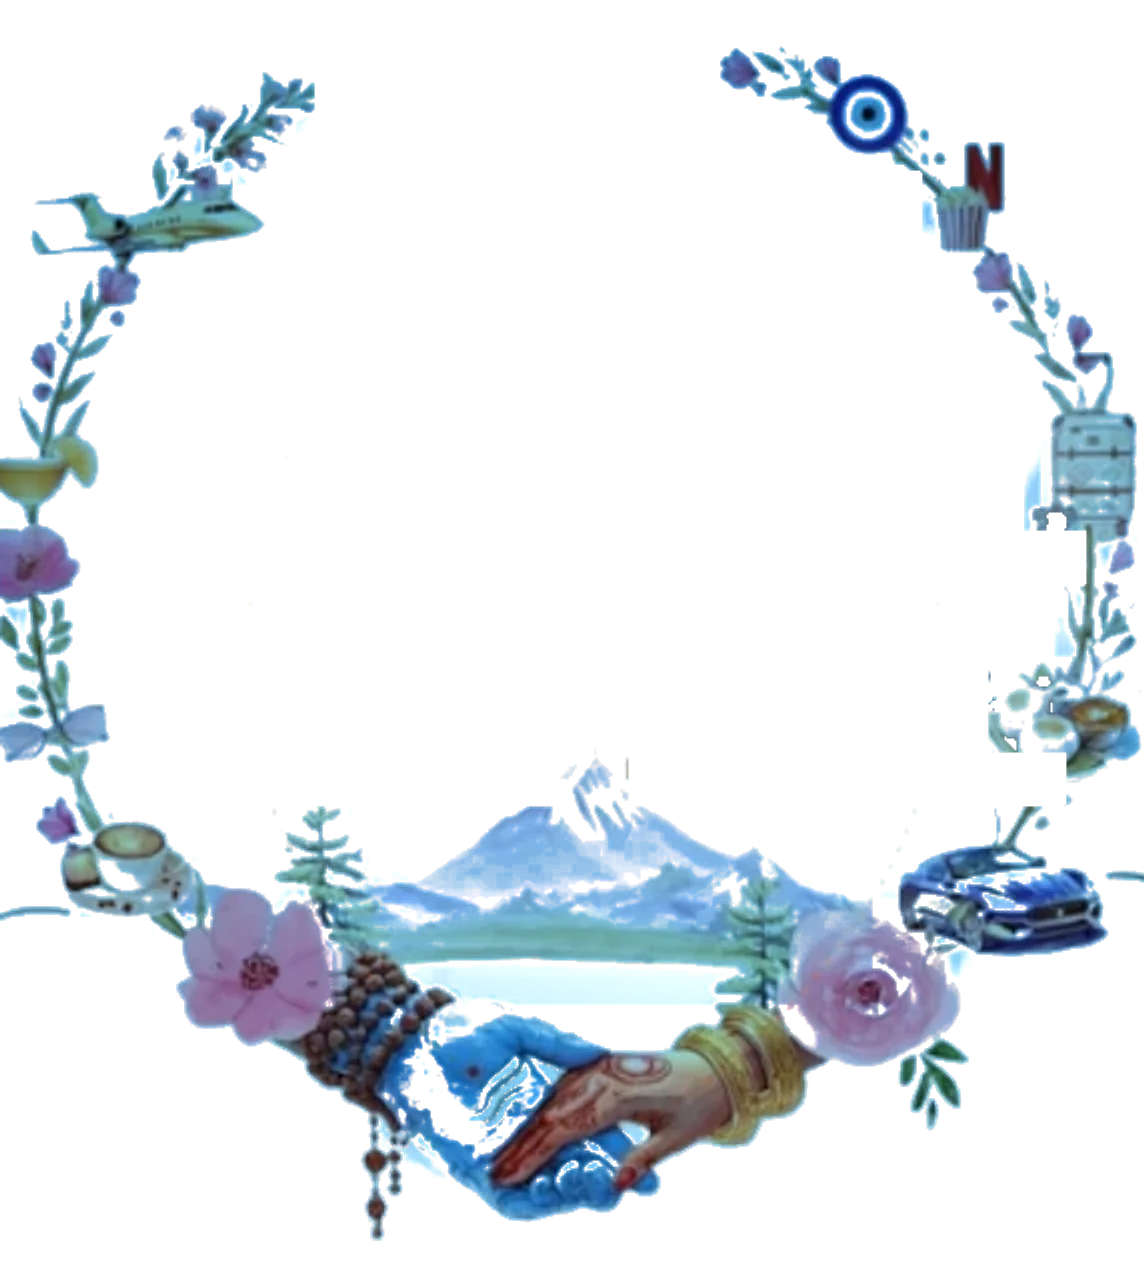
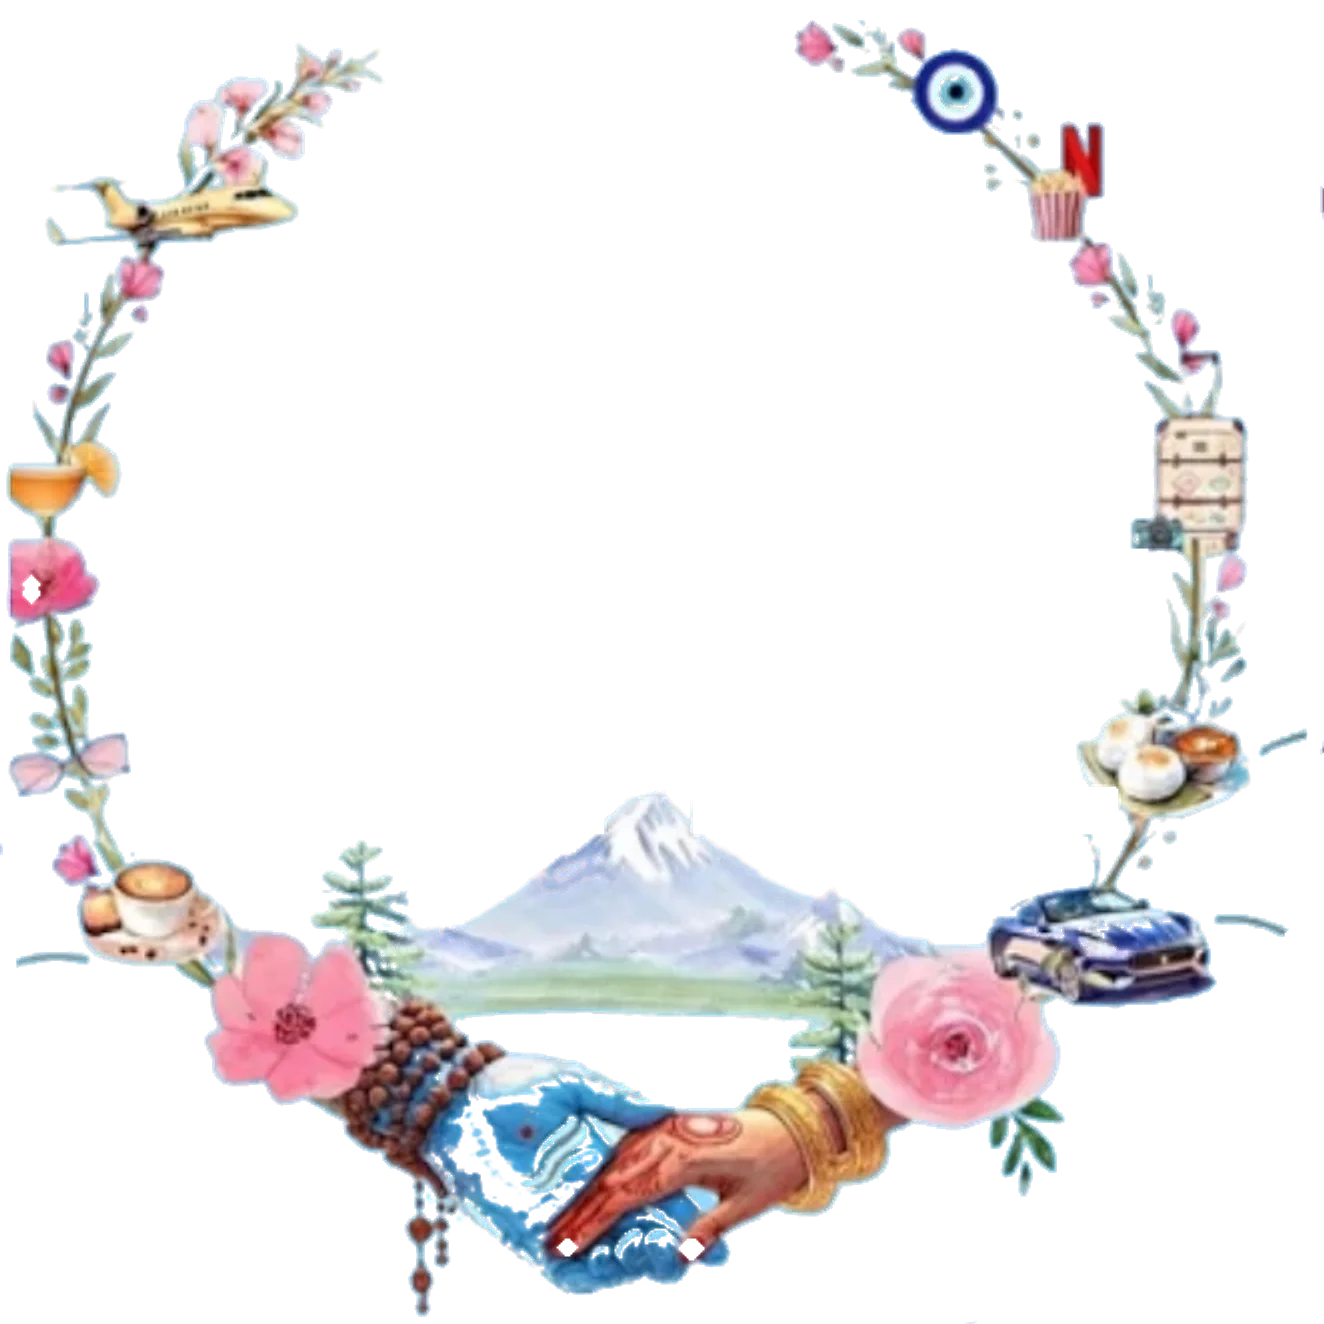
Countdown: the wreath design from the second screenshot
The section now follows the design inside the red outline: the wreath,
the mountain and the joined hands, re-cut from the new, sharper
screenshot (1324 x 1324), with the words set inside it as drawn.
- Gone: the dashed gold arch with the crescent, the stars around
  शुभ मुहूर्त and the fleuron under the section.
- The title, the gold line with its diamond and the date line sit
  higher and a little smaller; the numbers use old-style figures with
  fainter gold dividers, and the labels sit closer under them.
- The couple's clouds still part over the wreath as before.

Changed region(s): [[0.0, 0.0, 1.0, 1.0]]

diff --git a/src/components/sections/Countdown.tsx b/src/components/sections/Countdown.tsx
@@ -12,10 +12,10 @@ import { RollingNumber } from "@/components/ui/RollingNumber";
  * Section 03 — the celestial calendar, inside the couple's wreath.
  *
  * The couple's clouds part, and the wreath appears: flowering vines threaded
- * with their little things, a watercolour mountain and the joined hands at
- * its foot, a faint dashed gold arch with Shiva's crescent behind the words.
- * Inside: the auspicious moment and a live count of days, hours, minutes and
- * seconds to the wedding at the venue's time. A small gold fleuron closes it.
+ * with their little things, and a watercolour mountain and the joined hands
+ * at its foot. Inside: the auspicious moment, a fine gold line, the date, and
+ * a live count of days, hours, minutes and seconds to the wedding at the
+ * venue's time.
  */
 export function Countdown() {
   const ref = useRef<HTMLElement>(null);
@@ -63,24 +63,20 @@ export function Countdown() {
               transition: reduced ? "opacity 400ms linear" : `opacity 1400ms ${EASE.silk} ${at(500)}ms`,
             }}
           />
-          <ArchCrown shown={seen} reduced={reduced} />
-
-          <div className="absolute inset-x-[9%] top-[19.5%] flex flex-col items-center">
-            <Reveal show={seen} delay={at(900)} as="p" className="font-deva text-[15px] leading-none text-gold-ink">
-              <span aria-hidden className="mr-1.5 text-[10px]">✦</span>
+          <div className="absolute inset-x-[11%] top-[20.6%] flex flex-col items-center">
+            <Reveal show={seen} delay={at(900)} as="p" className="font-deva text-[16px] leading-none text-gold-ink">
               <span lang="sa">{copy.eyebrow}</span>
-              <span aria-hidden className="ml-1.5 text-[10px]">✦</span>
             </Reveal>
             <Reveal show={seen} delay={at(1050)}>
               <h2
                 id="countdown-heading"
-                className="mt-[2.6cqw] text-[27px] leading-tight [font-size:clamp(24px,7.6cqw,29px)]"
+                className="mt-[2.2cqw] text-[25px] font-medium leading-tight [font-size:clamp(22px,7.2cqw,28px)]"
               >
                 {message ? message.title : copy.title}
               </h2>
             </Reveal>
             {/* a fine gold line with a diamond */}
-            <Reveal show={seen} delay={at(1150)} className="mt-[2.4cqw] flex w-full items-center gap-2">
+            <Reveal show={seen} delay={at(1150)} className="mt-[1.6cqw] flex w-[88%] items-center gap-2">
               <span aria-hidden className="h-px flex-1 bg-gradient-to-r from-transparent to-gold" />
               <span aria-hidden className="h-2 w-2 rotate-45 border border-gold bg-ivory" />
               <span aria-hidden className="h-px flex-1 bg-gradient-to-l from-transparent to-gold" />
@@ -90,14 +86,14 @@ export function Countdown() {
                 show={seen}
                 delay={at(1200)}
                 as="p"
-                className="mt-[2.2cqw] font-sans text-[10px] font-medium uppercase tracking-[0.16em] text-gold-ink [font-size:clamp(9.5px,2.9cqw,11px)]"
+                className="mt-[1.6cqw] font-sans text-[10px] font-semibold uppercase tracking-[0.14em] text-gold-ink [font-size:clamp(9px,2.75cqw,10.5px)]"
               >
                 {dateLine}
               </Reveal>
             )}
           </div>
 
-          <div className="absolute inset-x-[9%] top-[48.5%]">
+          <div className="absolute inset-x-[14%] top-[49.2%]">
             {message ? (
               <Reveal
                 show={seen}
@@ -121,12 +117,12 @@ export function Countdown() {
                     ).map(([label, value], i) => (
                       <div
                         key={label}
-                        className={`flex flex-col-reverse items-center ${i ? "border-l border-gold/60" : ""}`}
+                        className={`flex flex-col-reverse items-center ${i ? "border-l border-gold/30" : ""}`}
                       >
-                        <dt className="mt-[1.4cqw] font-sans text-[10px] font-medium uppercase tracking-[0.18em] text-gold-ink [font-size:clamp(9px,2.7cqw,10.5px)]">
+                        <dt className="mt-[0.4cqw] font-sans text-[9px] font-semibold uppercase tracking-[0.14em] text-gold-ink [font-size:clamp(8.5px,2.45cqw,9.5px)]">
                           {label}
                         </dt>
-                        <dd className="font-display text-[38px] font-semibold leading-none text-navy [font-size:clamp(30px,11cqw,42px)] [font-variant-numeric:lining-nums_tabular-nums]">
+                        <dd className="font-display text-[34px] font-medium leading-none text-navy [font-size:clamp(28px,9.8cqw,37px)] [font-variant-numeric:oldstyle-nums_tabular-nums]">
                           <RollingNumber value={value} />
                         </dd>
                       </div>
@@ -158,15 +154,6 @@ export function Countdown() {
           </div>
         </div>
       </div>
-
-      {/* a small gold fleuron closes it */}
-      <Reveal show={seen} delay={at(1700)} className="mt-3 flex items-center gap-2.5">
-        <span aria-hidden className="h-px w-16 bg-gradient-to-r from-transparent to-gold" />
-        <span aria-hidden className="text-[17px] leading-none text-gold-ink">
-          ❦
-        </span>
-        <span aria-hidden className="h-px w-16 bg-gradient-to-l from-transparent to-gold" />
-      </Reveal>
     </section>
   );
 }
@@ -184,44 +171,4 @@ function part(side: "left" | "right", open: boolean, reduced: boolean): CSSPrope
     transform: open ? `translateX(${away})` : "none",
     transition: reduced ? "opacity 400ms linear" : `transform 2200ms ${EASE.drift}, opacity 2200ms ${EASE.drift}`,
   };
-}
-
-/**
- * The faint gold arch behind the words, as in the couple's design: a dashed
- * outer line and a fine inner one rise to a point with Shiva's crescent and
- * bindu under it, and fade away above the numbers. Drawn on the wreath's own
- * 572 × 636 grid.
- */
-function ArchCrown({ shown, reduced }: { shown: boolean; reduced: boolean }) {
-  const appear = (delay: number): CSSProperties => ({
-    opacity: shown ? 1 : 0,
-    transition: reduced ? "opacity 500ms linear" : `opacity 900ms ease-out ${delay}ms`,
-  });
-  const fade = "linear-gradient(#000 20%, transparent 56%)";
-  return (
-    <svg
-      viewBox="0 0 572 636"
-      className="pointer-events-none absolute inset-0 h-full w-full"
-      style={{ WebkitMaskImage: fade, maskImage: fade }}
-      aria-hidden
-    >
-      <g fill="none" stroke="rgb(var(--gold))" strokeLinecap="round" strokeLinejoin="round">
-        {/* outer, dashed */}
-        <g strokeWidth="1.5" strokeDasharray="5 6" opacity="0.8" style={appear(700)}>
-          <path d="M286 42C272 68 232 96 190 120C160 138 146 168 144 208V360" />
-          <path d="M286 42C300 68 340 96 382 120C412 138 426 168 428 208V360" />
-        </g>
-        {/* inner, fine */}
-        <g strokeWidth="1" opacity="0.55" style={appear(850)}>
-          <path d="M286 60C275 82 244 106 210 128C188 142 178 166 176 200V360" />
-          <path d="M286 60C297 82 328 106 362 128C384 142 394 166 396 200V360" />
-        </g>
-        {/* Shiva's crescent with a bindu, under the point */}
-        <g style={appear(1000)}>
-          <path strokeWidth="1.3" fill="rgb(var(--gold) / 0.35)" d="M272 66a14 14 0 0 0 28 0a17 17 0 0 1-28 0Z" />
-          <circle cx="286" cy="54" r="2.4" fill="rgb(var(--gold))" stroke="none" />
-        </g>
-      </g>
-    </svg>
-  );
 }

diff --git a/src/config/wedding.ts b/src/config/wedding.ts
@@ -403,11 +403,11 @@ export const wedding = {
     /**
      * Section 03's frame — a wreath of flowering vines and the couple's little things (a plane, an
      * evil-eye charm, popcorn, a suitcase, donuts, a car, a coffee cup…), a watercolour mountain
-     * and the joined hands at its foot (1144 × 1272, transparent). Lifted from the couple's design
+     * and the joined hands at its foot (1324 × 1324, transparent). Lifted from the couple's design
      * screenshot; a larger original would look sharper.
      */
     countdownWreath: "/art/countdown-wreath.webp",
-    countdownWreathSize: { width: 1144, height: 1272 },
+    countdownWreathSize: { width: 1324, height: 1324 },
     /** Soft cloud bank (it parts for the countdown, and drifts over the Save the Date's peaks). */
     clouds: "/art/clouds.webp",
   },

diff --git a/README.md b/README.md
@@ -114,7 +114,7 @@ Each section has its own composition, and each hands over to the next.
 | 00 | Opening | Both hands start partly off the screen — Shiva's at the upper left, palm down; the bride's at the lower right, palm up — and glide slowly to the centre, where Shiva's hand settles over hers and rests (a soft contact shadow, a warm gold glow). The hands are the painted artwork, only moved and faded, never stretched or redrawn. Then the glow widens, a few gold motes drift outward and both hands fade together into the sky. Skip is always shown, a reload gets a quicker version, and `?opening=full` replays the full one. |
 | 01 | Save the Date | Exactly one screen (`100svh`). The card rises in piece by piece, in order of importance: "Save the Date", the names (stacked: bride, a small gold "&", groom — never cut, however long), the request, the date on one line (February · 12 · 2027) and the venue (a tap opens Google Maps directions); then the painting of Mahadev blessing Maa Parvati before the snowy Himalaya, its sky melting into the site's sky behind the words and its foot meeting the bottom edge of the screen. Over its lower edge, on a soft dark-navy gradient: the blessing line and **View the Invitation** with a gently bobbing double arrow — a tap glides to the next section. EN / हिं switches the card to Hindi (`invitation.hindi`, remembered on the phone). Light clouds part as the guest scrolls, the moon in Mahadev's hair glows softly, and a bell in the corner plays a soft temple dhun made in the browser — only when tapped. After 5 s of reading it glides on by itself (`invitation.autoAdvanceMs`); any touch cancels this. |
 | 02 | Couple | One screen in the style of the couple's chosen painting, on the site's own sky: a carved arch in the gold of Parvati's saree, with temple bells and jasmine strings, across the top (`assets.coupleArch`); on the sky below the bells, the welcome (`coupleWelcome`) — "Welcome", "Dear {guest}," from the link (`?guest=`, max 40 characters, else "Guest"), "you are warmly invited", the couple's names stacked, the hashtag, the date on one line (12 · FEBRUARY · 2027) and the full venue as a Google Maps link — rising in one by one as the section comes into view; and at the foot (`assets.coupleScene`) palms, petals, hills, a temple by the river, a diya, lotuses and the couple offering water to the Shivling, always with at least 40px of clear sky above their heads (on a short screen they move lower). It keeps the `#couple` id because "View the Invitation" and the auto-glide land here. |
-| 03 | Countdown | The clouds part; inside the couple's wreath (`assets.countdownWreath` — flowering vines threaded with their little things, a watercolour mountain and the joined hands at its foot) and a faint dashed gold arch with Shiva's crescent: शुभ मुहूर्त, the title, the date line and the live time to the muhurat at the venue; a small gold fleuron closes it. On the day it reads "Today Is the Day", afterwards "Happily Married". |
+| 03 | Countdown | The clouds part; inside the couple's wreath (`assets.countdownWreath` — flowering vines threaded with their little things, a watercolour mountain and the joined hands at its foot): शुभ मुहूर्त, the title, a fine gold line with a diamond, the date line and the live time to the muhurat at the venue in old-style figures with faint gold dividers. On the day it reads "Today Is the Day", afterwards "Happily Married". |
 | 04 | Our Story | A golden path winds between the moments and draws with the scroll, ending in a kalash. |
 | 05 | Events | The kalash ties on a twisted gold "sacred thread"; each ceremony hangs from it as a medallion, grouped by day. |
 | 06 | Family | The thread parts into two gold arches that draw themselves, one per family. |
